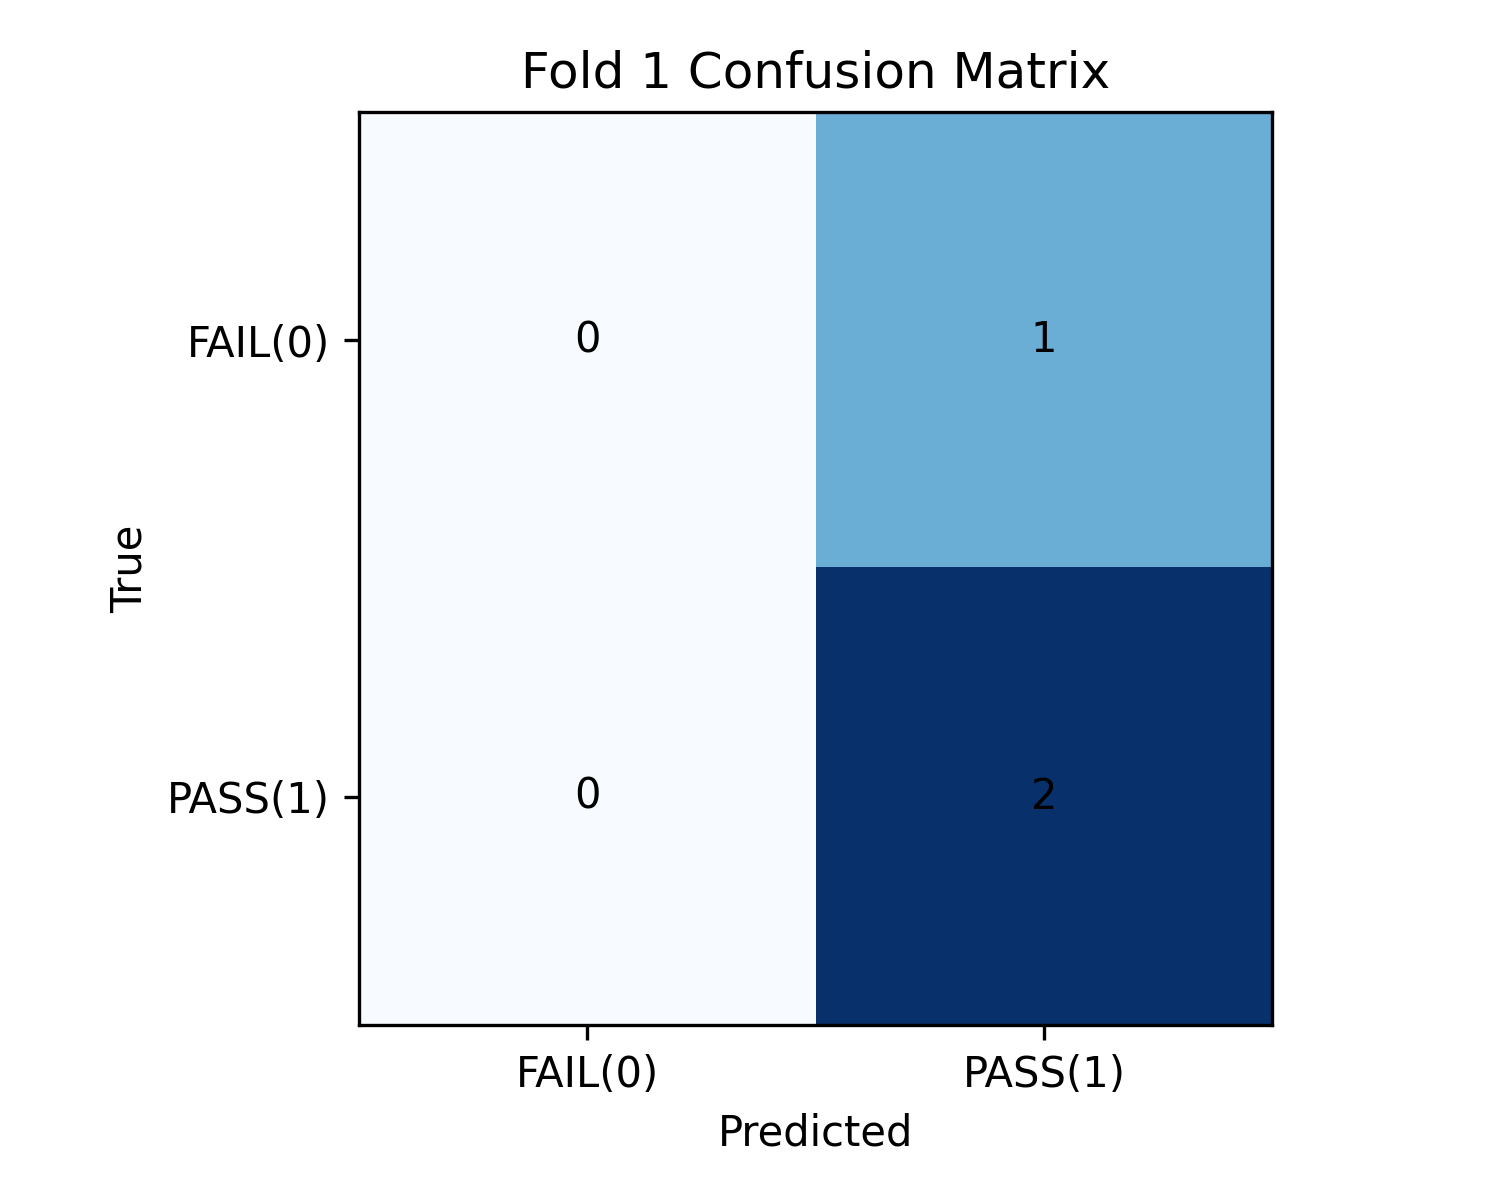
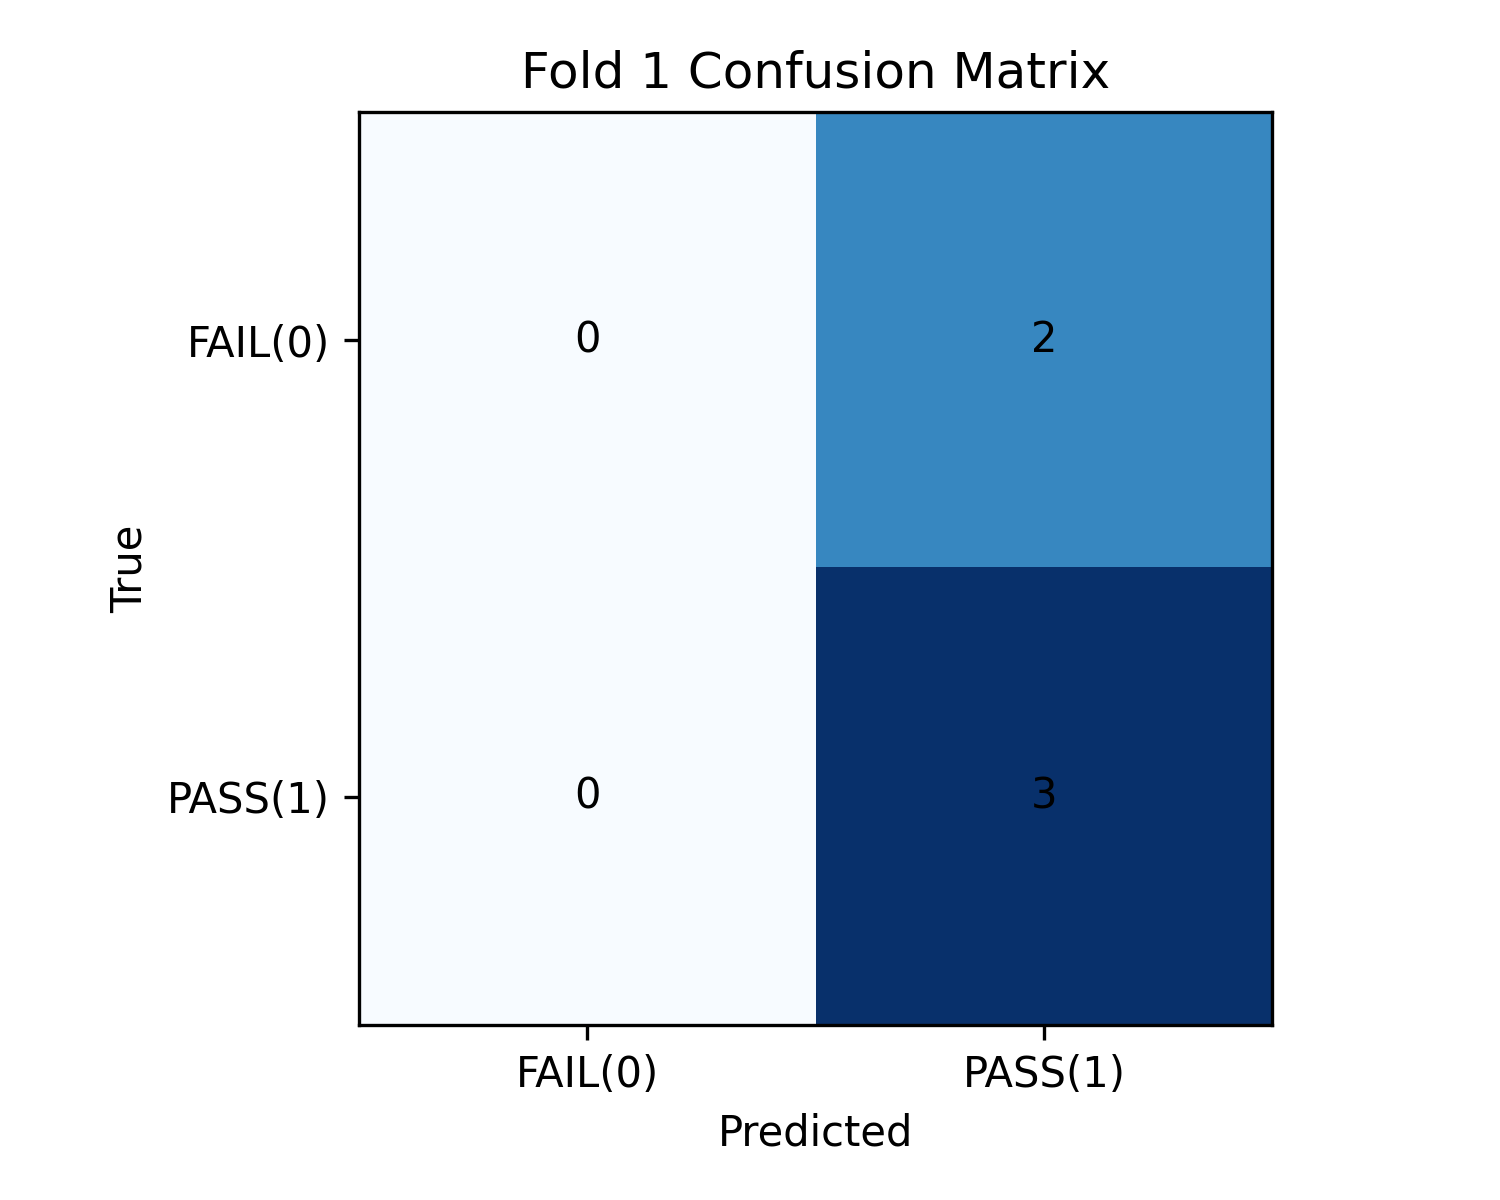
ignore

Changed region(s): [[0.5213, 0.0925, 0.8587, 0.4933], [0.6747, 0.6475, 0.7053, 0.6783]]

diff --git a/src/run_2DCNN/config.py b/src/run_2DCNN/config.py
@@ -7,21 +7,21 @@ INT_TO_LABEL = {0: 'FAIL', 1: 'PASS'} #Integer to label mapping
 #Data paths:
 data_dir = os.path.join("data", "videos") #Base directory for video data
 raw_frames_dir = os.path.join(data_dir, "raw_videos") #Directory for raw video frames
-# ann_dir = os.path.join(data_dir, "rectangle_label_videos") #Directory for annotation JSON files
-ann_dir = os.path.join(data_dir, "polygon_label_videos") #Directory for annotation JSON files #<- change to polygon_label_videos if using polygon annotations
+ann_dir = os.path.join(data_dir, "rectangle_label_videos") #Directory for annotation JSON files
+# ann_dir = os.path.join(data_dir, "polygon_label_videos") #Directory for annotation JSON files #<- change to polygon_label_videos if using polygon annotations
 
-# index_json_path = os.path.join(data_dir, "index_rec.json") #Path to index JSON file for rectangle annotations
-index_json_path = os.path.join(data_dir, "index_poly.json") #Path to index JSON file for polygon annotations
+index_json_path = os.path.join(data_dir, "index_rec.json") #Path to index JSON file for rectangle annotations
+# index_json_path = os.path.join(data_dir, "index_poly.json") #Path to index JSON file for polygon annotations
 
 # splits_json_path = os.path.join(data_dir, "splits_rec.json") #Path to splits JSON file for train/val splits (all videos)
-# splits_json_path = os.path.join(data_dir, "splits_rec_10.json") #<-- Temporary, smaller splits for quick testing (10)
-splits_json_path = os.path.join(data_dir, "splits_poly_10.json") #Path to splits JSON file for train/val splits
+splits_json_path = os.path.join(data_dir, "splits_rec_20.json") #<-- Temporary, smaller splits for quick testing (10)
+# splits_json_path = os.path.join(data_dir, "splits_poly_10.json") #Path to splits JSON file for train/val splits
 
 #Output directories:
 runs_path = os.path.join("runs","run_2DCNN") #Base directory for training runs
 
 #Model & Training Parameters:
-kfolds = 3 #Number of folds for cross-validation
+kfolds = 4 #Number of folds for cross-validation
 seed = 42 #Random seed for reproducibility
 epochs = 20 #Number of training epochs try: 20, 50, 100 HERE <-
 batch_size = 16 #Batch size for training <- 2D CNN is lighter than 3D CNN so we can afford a larger batch size
@@ -36,11 +36,11 @@ frames_per_video_validation = 32 # Frames to sample for validation.
 sample_mode_train = "random" #Mode for sampling frames during training, options: "uniform", "random", "first_n"
 sample_mode_validation = "uniform" #Mode for sampling frames during validation, options: "uniform", "random", "first_n"
 
-resize_hw = (224,224) #ImageNet backbones typically use 224x224, we can also try 112x112 for a lighter load!
+resize_hw = (224,224) #ImageNet backbones typically use 224x224, we can also try (112x112) for a lighter load! which is what the 3d cnn uses
 use_only_annotated_frames = True #Whether to use only annotated frames for train/val. 
 
 #For early stopping (k-fold) and if acc reaches performance threshold:
-stop_if_val_acc_perfect = True #Helps us save some time, stops once 100% val acc, set to False if you want to train for all epochs regardless of performance.
+stop_if_val_acc_perfect = False #Helps us save some time, stops once 100% val acc, set to False if you want to train for all epochs regardless of performance.
 perfect_acc_tolerance = 1e-4 #Tolerance for considering validation acc as perfect, this way we avoid with floating points like 0.99999... being considered perfect.
 
 #Model

diff --git a/src/run_2DCNN/eval.py b/src/run_2DCNN/eval.py
@@ -235,7 +235,7 @@ def main():
 
     folds = [args.fold] if args.fold is not None else list(range(int(kfolds))) #Evaluate specified fold or all folds
 
-    report_dir =os.path.join(runs_path, "reports_10PolyLabels") # <---Directory to save evaluation reports and plots, we can change the name here
+    report_dir =os.path.join(runs_path, "reports") # <---Directory to save evaluation reports and plots, we can change the name here
     _ensure_dir(report_dir)
     
     all_rows: List[Dict] = []
